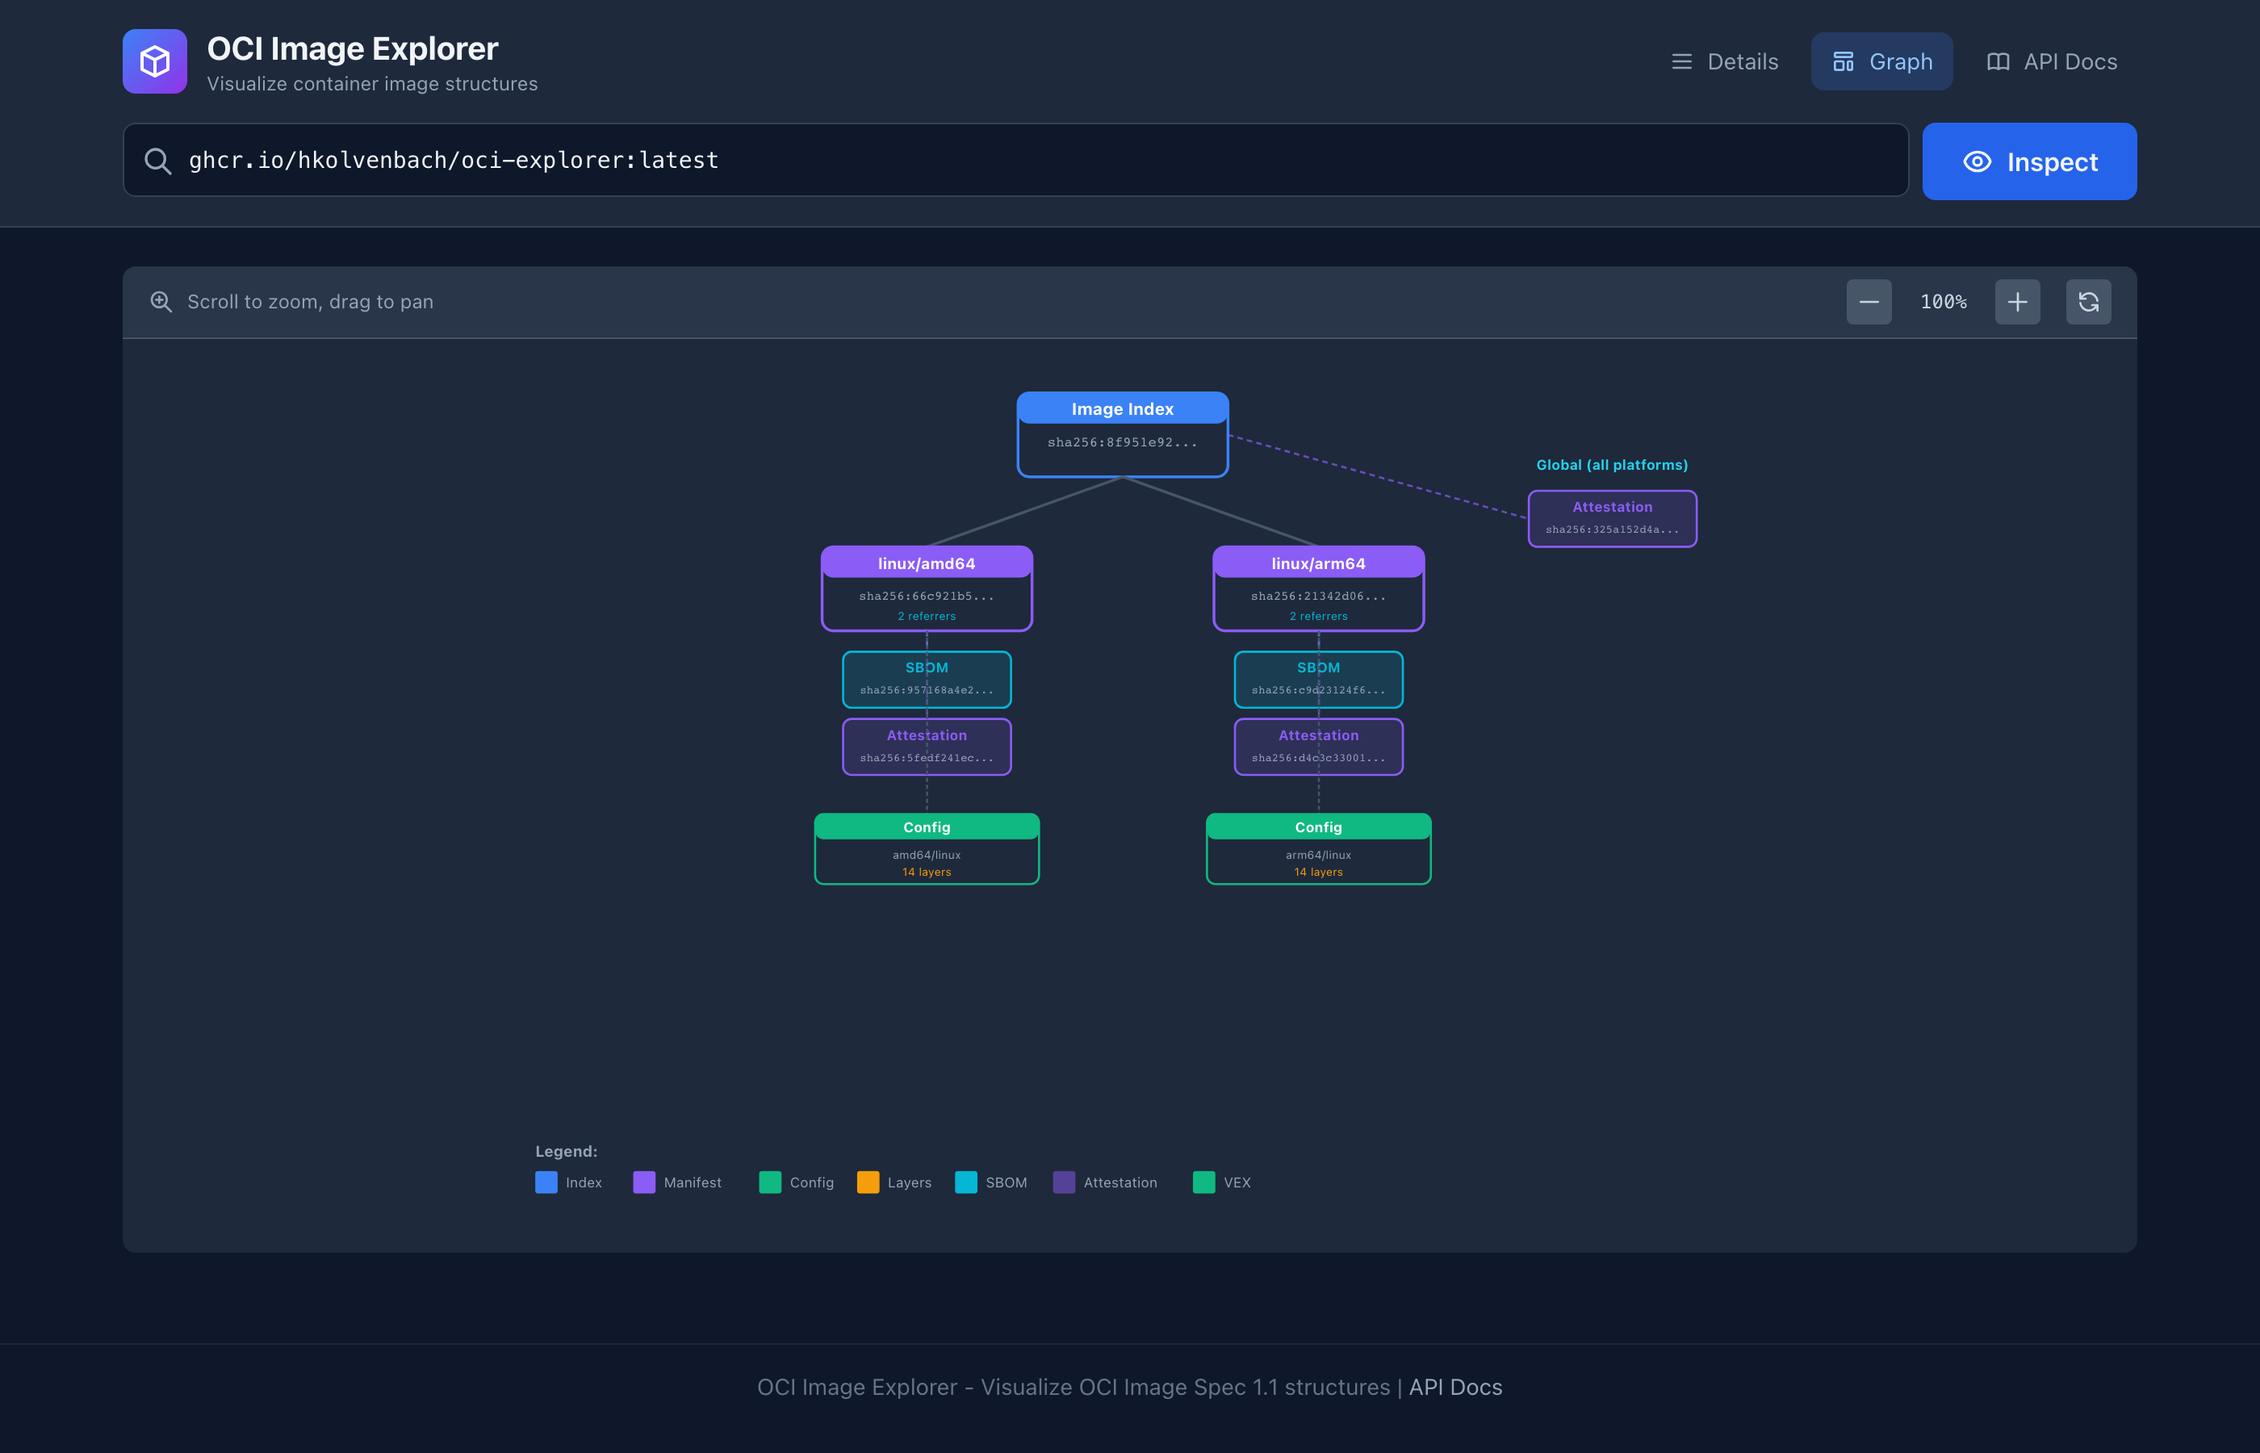
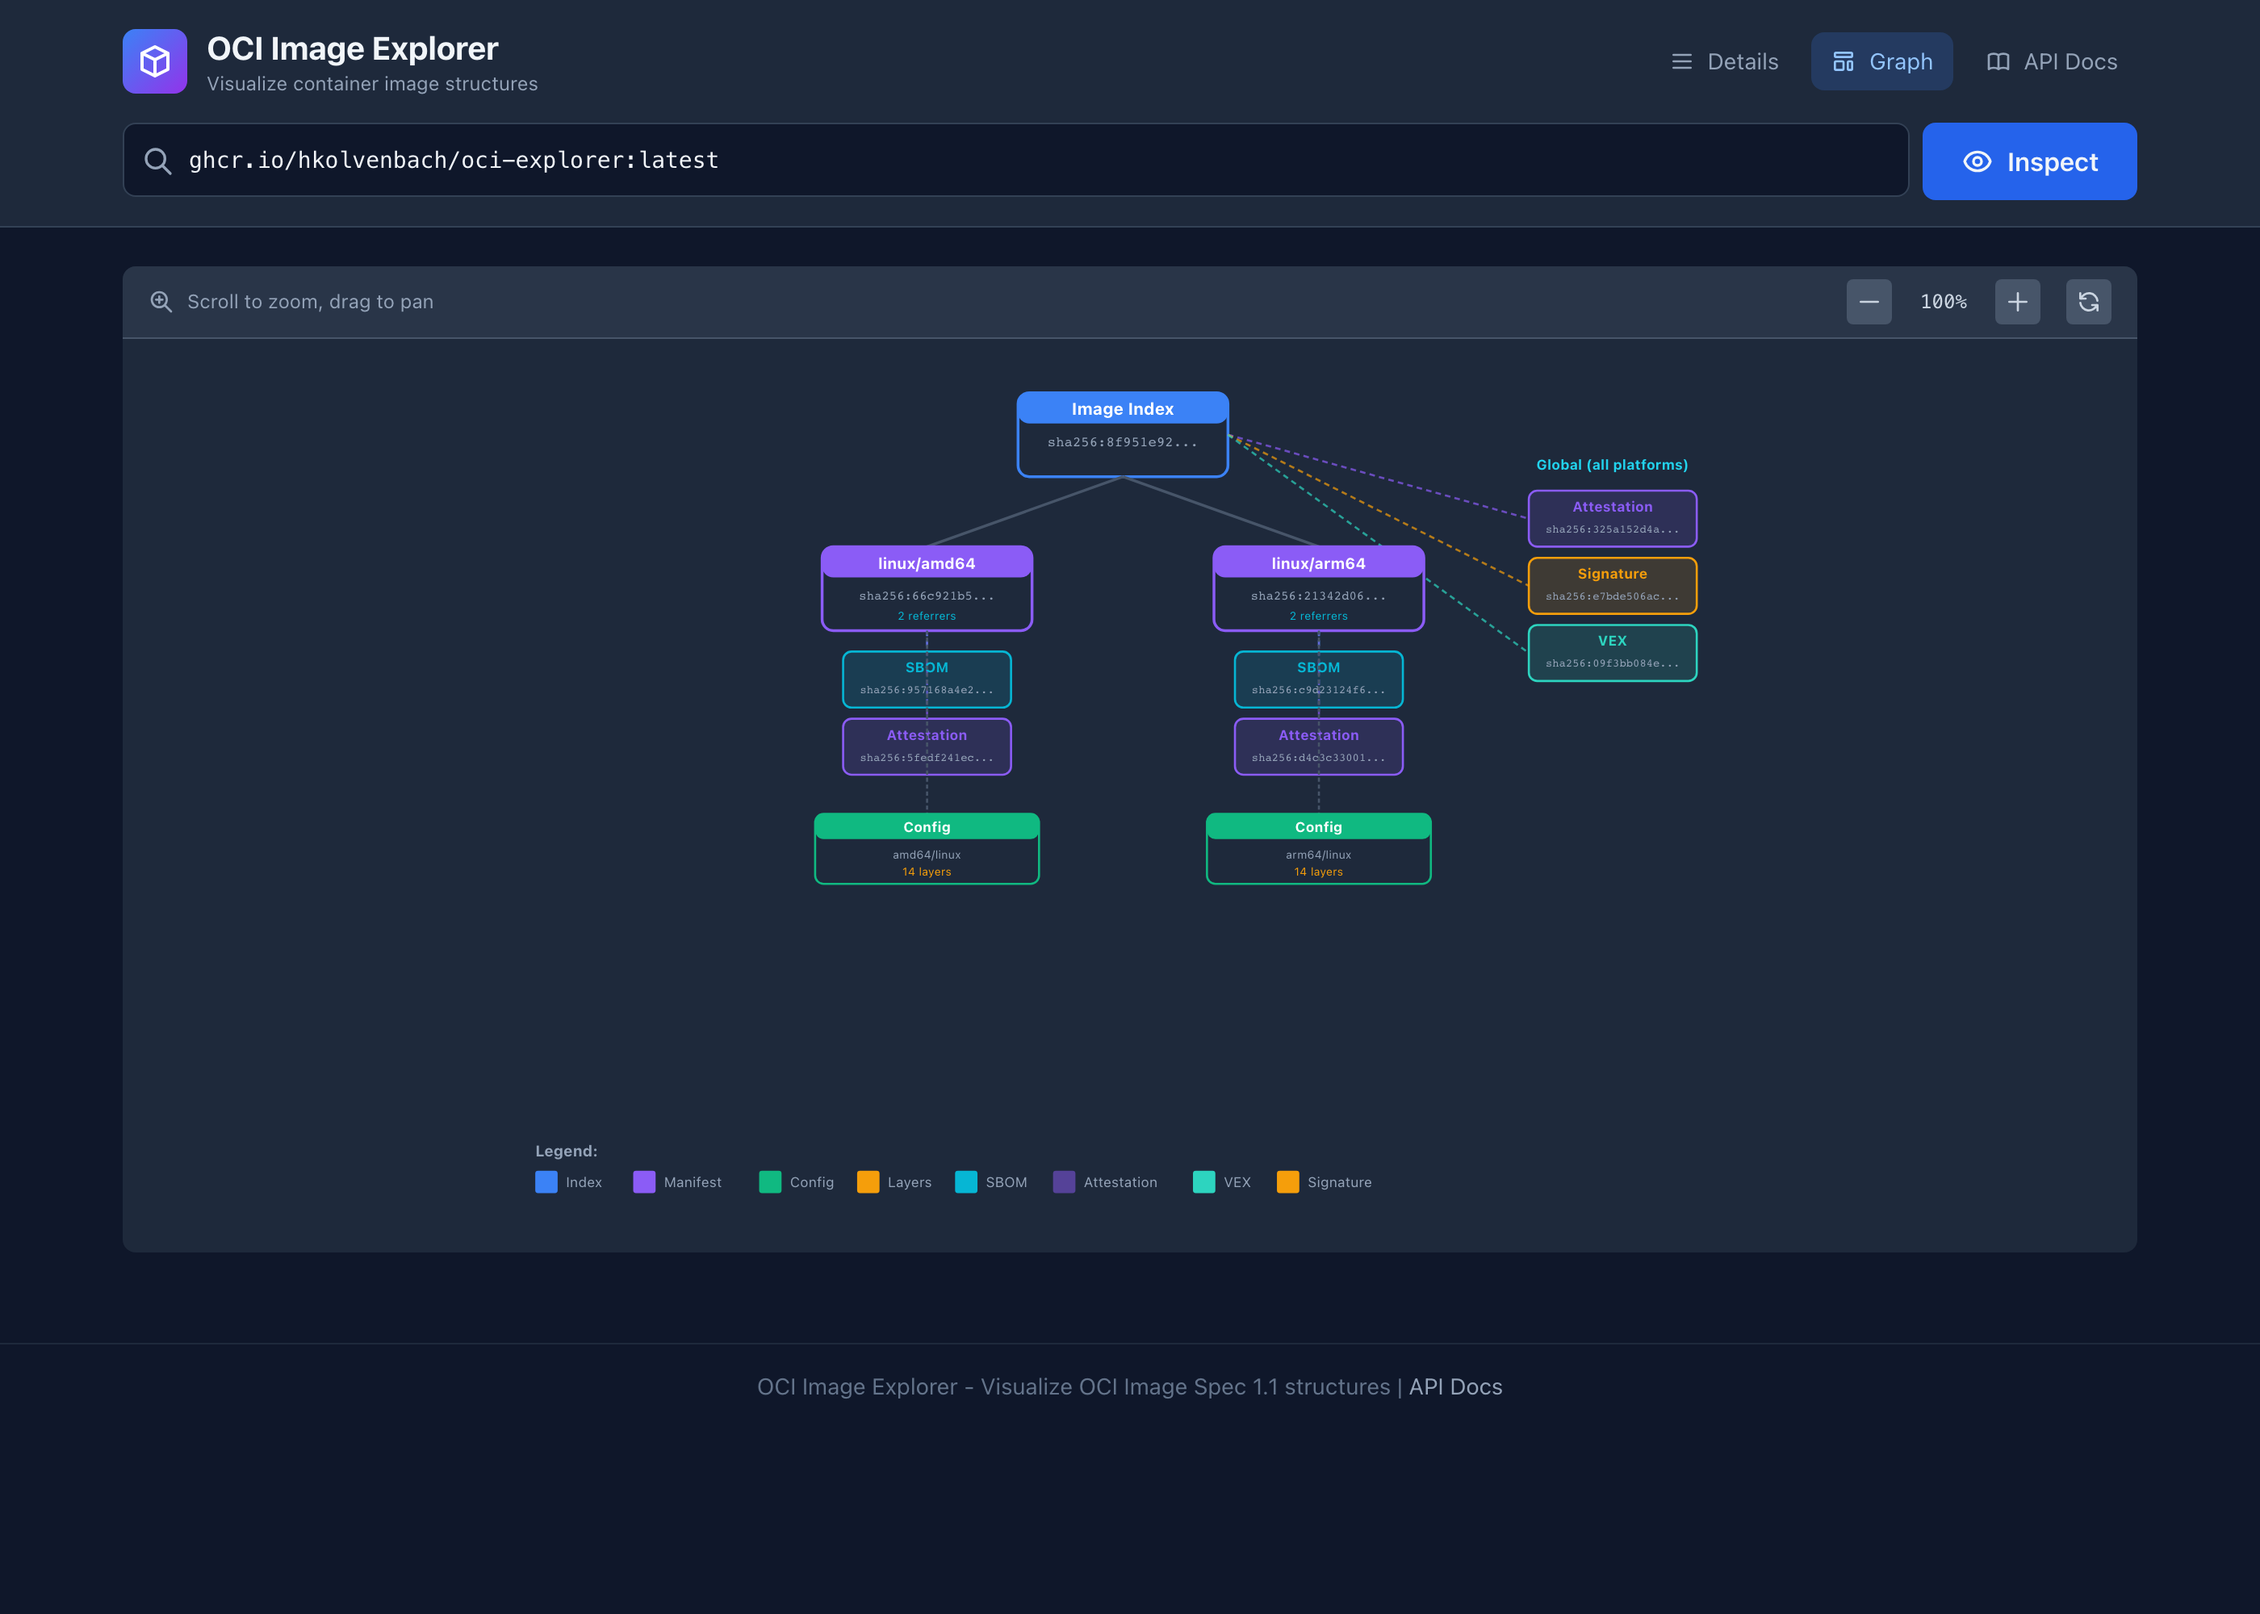
feat(ui): add VEX download button, swap layout, fix graph referrer display
- Add Download button alongside View for VEX referrers
- Swap Layers and Referrers columns (referrers now in left column)
- Fix graph to show VEX and Signature nodes attached to image index
  (referrers pointing to the index digest were silently dropped)
- Differentiate VEX color (teal) from Config (green) in graph
- Add Signature to graph legend
- Update screenshots

diff --git a/web/index.html b/web/index.html
@@ -556,14 +556,14 @@
                     <!-- Left Column -->
                     <div>
                         ${data.imageIndex ? renderImageIndexSection(data.imageIndex, selectedPlatform) : ''}
-                        ${data.manifest ? renderLayersSection(data.manifest.layers) : ''}
+                        ${renderReferrersSection(filteredReferrers, data.referrers?.length || 0)}
                         ${data.manifest?.annotations ? renderAnnotationsSection(data.manifest.annotations) : ''}
                     </div>
 
                     <!-- Right Column -->
                     <div>
                         ${selectedConfig ? renderConfigSection(selectedConfig, selectedPlatformName) : ''}
-                        ${renderReferrersSection(filteredReferrers, data.referrers?.length || 0)}
+                        ${data.manifest ? renderLayersSection(data.manifest.layers) : ''}
                         ${renderTagsSection(data.tags || [])}
                     </div>
                 </div>
@@ -888,6 +888,39 @@
             }
         }
 
+        async function downloadVEX(repository, digest, event) {
+            event.stopPropagation();
+            const btn = event.currentTarget;
+            const originalContent = btn.innerHTML;
+
+            btn.innerHTML = '<svg class="w-4 h-4 animate-spin" viewBox="0 0 24 24"><circle class="opacity-25" cx="12" cy="12" r="10" stroke="currentColor" stroke-width="4" fill="none"></circle><path class="opacity-75" fill="currentColor" d="M4 12a8 8 0 018-8V0C5.373 0 0 5.373 0 12h4zm2 5.291A7.962 7.962 0 014 12H0c0 3.042 1.135 5.824 3 7.938l3-2.647z"></path></svg>';
+            btn.disabled = true;
+
+            try {
+                const response = await fetch(`/api/vex?repository=${encodeURIComponent(repository)}&digest=${encodeURIComponent(digest)}`);
+                const result = await response.json();
+
+                if (!result.success) {
+                    throw new Error(result.error || 'Failed to fetch VEX');
+                }
+
+                const blob = new Blob([JSON.stringify(result.data, null, 2)], { type: 'application/json' });
+                const url = window.URL.createObjectURL(blob);
+                const a = document.createElement('a');
+                a.href = url;
+                a.download = `vex-${digest.substring(7, 19)}.json`;
+                document.body.appendChild(a);
+                a.click();
+                window.URL.revokeObjectURL(url);
+                document.body.removeChild(a);
+            } catch (error) {
+                alert('Error downloading VEX: ' + error.message);
+            } finally {
+                btn.innerHTML = originalContent;
+                btn.disabled = false;
+            }
+        }
+
         async function fetchVEX(repository, digest, index, event) {
             event.stopPropagation();
             const btn = event.currentTarget;
@@ -1072,6 +1105,13 @@
                                                             <path stroke-linecap="round" stroke-linejoin="round" stroke-width="2" d="M2.458 12C3.732 7.943 7.523 5 12 5c4.478 0 8.268 2.943 9.542 7-1.274 4.057-5.064 7-9.542 7-4.477 0-8.268-2.943-9.542-7z"></path>
                                                         </svg>
                                                         View
+                                                    </button>
+                                                    <button onclick="downloadVEX('${currentData?.repository}', '${r.digest}', event)"
+                                                        class="px-3 py-1.5 bg-emerald-500/20 hover:bg-emerald-500/30 text-emerald-300 rounded-md text-xs font-semibold flex items-center gap-1.5 transition-colors">
+                                                        <svg class="w-4 h-4" fill="none" stroke="currentColor" viewBox="0 0 24 24">
+                                                            <path stroke-linecap="round" stroke-linejoin="round" stroke-width="2" d="M4 16v1a3 3 0 003 3h10a3 3 0 003-3v-1m-4-4l-4 4m0 0l-4-4m4 4V4"></path>
+                                                        </svg>
+                                                        Download
                                                     </button>
                                                 ` : ''}
                                                 <div class="text-sm text-slate-400">${formatBytes(r.size)}</div>
@@ -1279,16 +1319,19 @@
 
             // Group referrers by their target platform digest using vnd.docker.reference.digest annotation
             const referrersByPlatform = {};
-            const globalReferrers = []; // Referrers that apply to all platforms (no reference digest)
+            const globalReferrers = []; // Referrers that apply to all platforms or attach to the index itself
+            const platformDigests = new Set(platforms.map(p => p.digest));
 
             referrers.forEach(r => {
                 const refDigest = r.annotations?.['vnd.docker.reference.digest'];
-                if (refDigest) {
+                if (refDigest && platformDigests.has(refDigest)) {
+                    // Referrer points to a specific platform manifest
                     if (!referrersByPlatform[refDigest]) {
                         referrersByPlatform[refDigest] = [];
                     }
                     referrersByPlatform[refDigest].push(r);
                 } else {
+                    // No reference digest, or points to the index digest — treat as global
                     globalReferrers.push(r);
                 }
             });
@@ -1322,7 +1365,7 @@
                     signature: { fill: '#f59e0b', text: 'Signature' },
                     sbom: { fill: '#06b6d4', text: 'SBOM' },
                     attestation: { fill: '#8b5cf6', text: 'Attestation' },
-                    vex: { fill: '#10b981', text: 'VEX' },
+                    vex: { fill: '#2dd4bf', text: 'VEX' },
                     artifact: { fill: '#64748b', text: 'Artifact' }
                 };
                 return colors[type] || colors.artifact;
@@ -1543,8 +1586,10 @@
                             <text x="322" y="22" fill="#94a3b8" font-size="10">SBOM</text>
                             <rect x="370" y="10" width="16" height="16" rx="2" fill="#8b5cf6" fill-opacity="0.5"/>
                             <text x="392" y="22" fill="#94a3b8" font-size="10">Attestation</text>
-                            <rect x="470" y="10" width="16" height="16" rx="2" fill="#10b981"/>
+                            <rect x="470" y="10" width="16" height="16" rx="2" fill="#2dd4bf"/>
                             <text x="492" y="22" fill="#94a3b8" font-size="10">VEX</text>
+                            <rect x="530" y="10" width="16" height="16" rx="2" fill="#f59e0b"/>
+                            <text x="552" y="22" fill="#94a3b8" font-size="10">Signature</text>
                         </g>
                             </g>
                         </svg>
